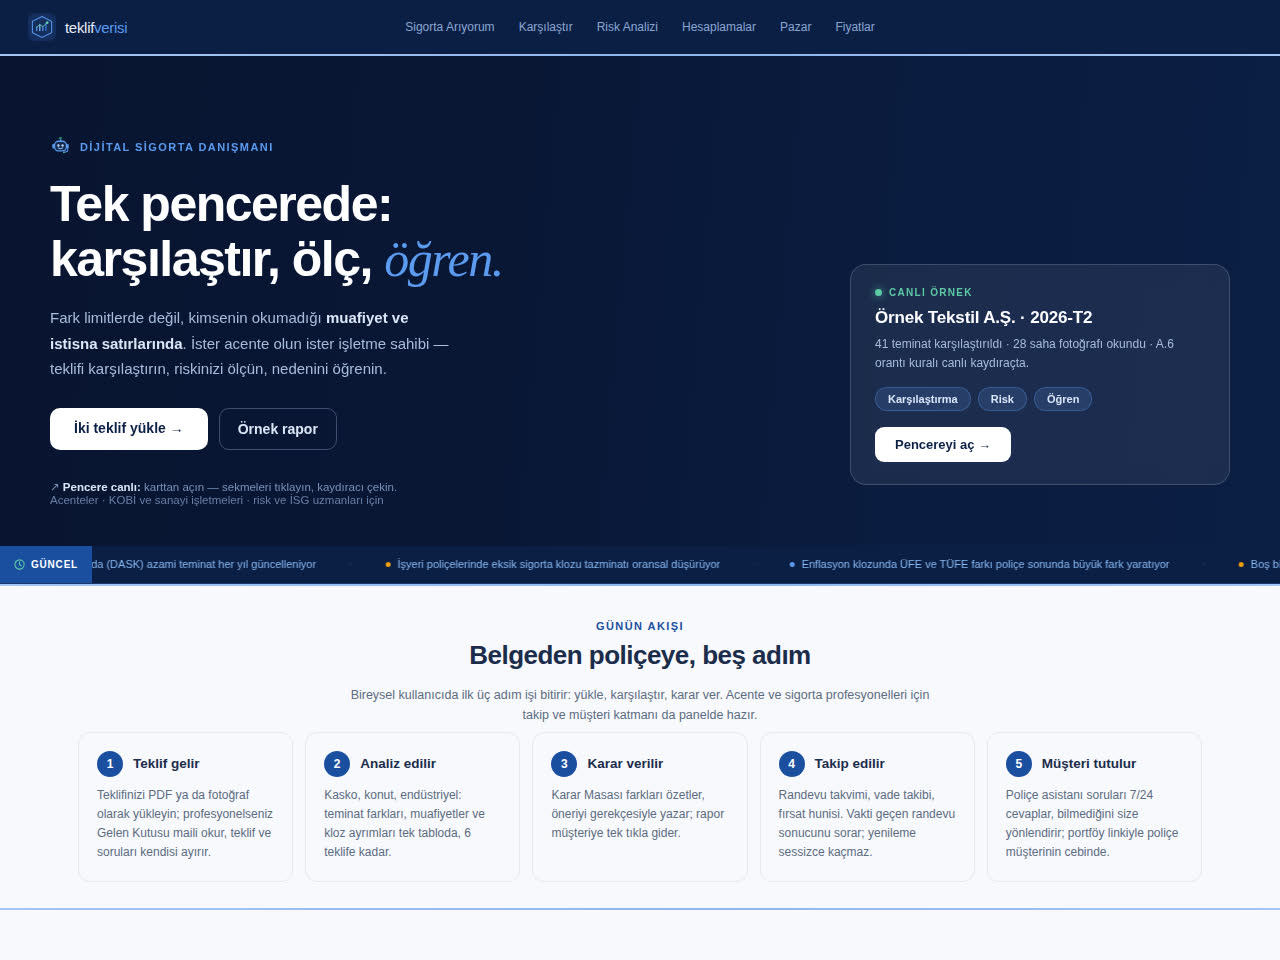
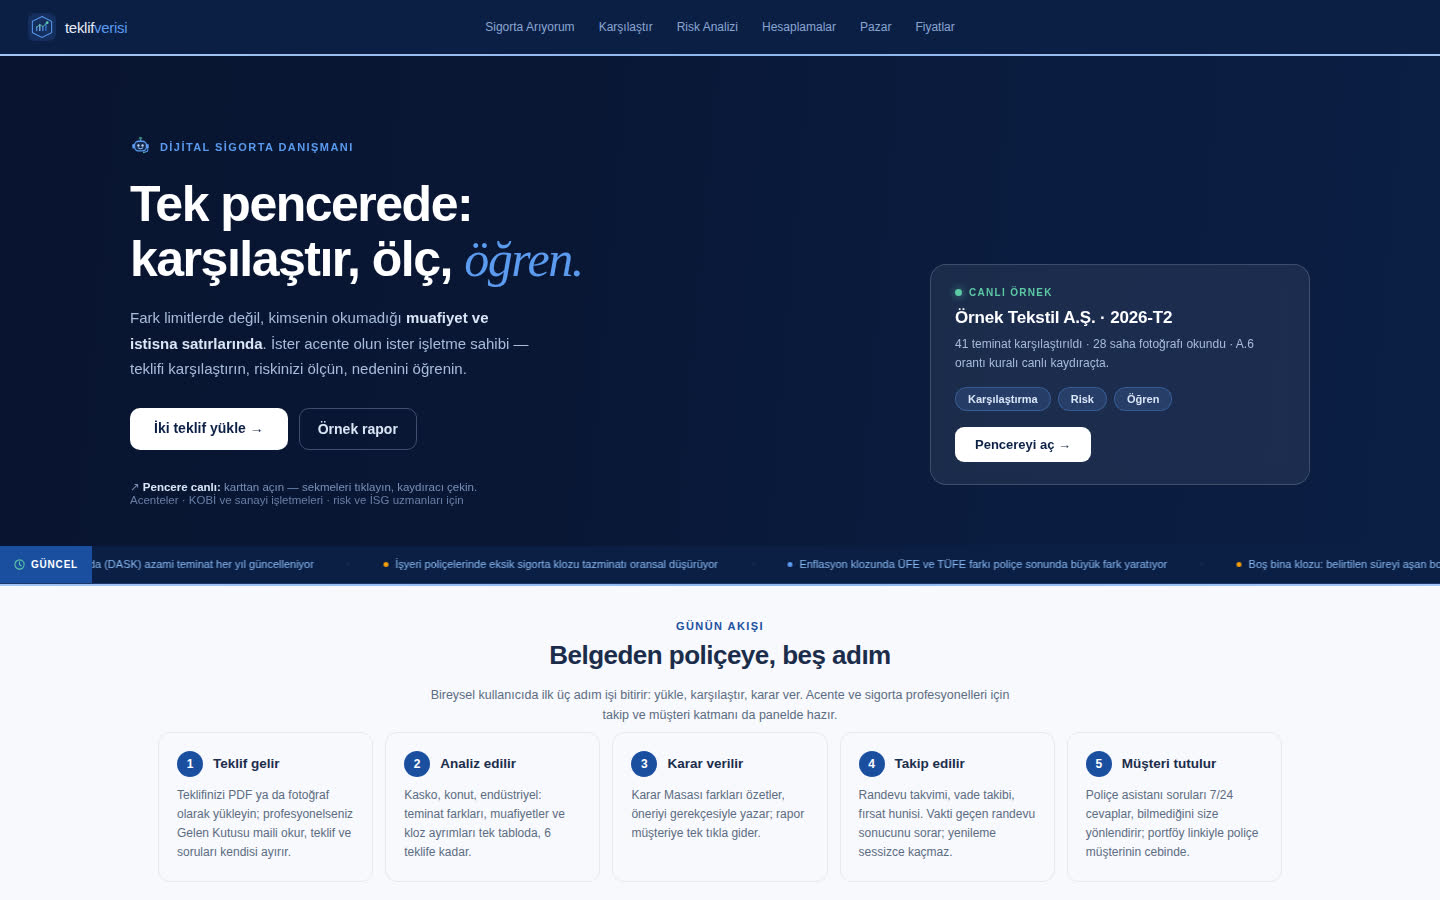
fix: kapak görselleri kesilmeden görünüyor
- TeklifVerisi ve Toplanot kapakları 16:10 (1440x900) formatta yeniden
  çekildi — kartın oranına yakın, kırpma minimuma indi.
- Görseller left-top'tan sabitlendi: sitenin logosu ve hero başlığı
  hiçbir viewport'ta kesilmiyor.

Claude-Session: https://claude.ai/code/session_01TJnPRaUdVMW6F67g4khBw7

Changed region(s): [[0.0, 0.1244, 1.0, 0.9644], [0.0, 0.0, 1.0, 0.0622], [0.6562, 0.28, 0.9062, 0.5289]]

diff --git a/index.html b/index.html
@@ -225,7 +225,7 @@ h2 .grad { background: var(--grad); -webkit-background-clip: text; background-cl
 .xcard:focus-visible { border-color: var(--amber); }
 .xcard img {
   position: absolute; inset: 0; width: 100%; height: 100%;
-  object-fit: cover; object-position: top;
+  object-fit: cover; object-position: left top;
   filter: grayscale(1) brightness(.98); transform: scale(1.06);
   transition: filter .5s ease, transform .5s ease;
 }
